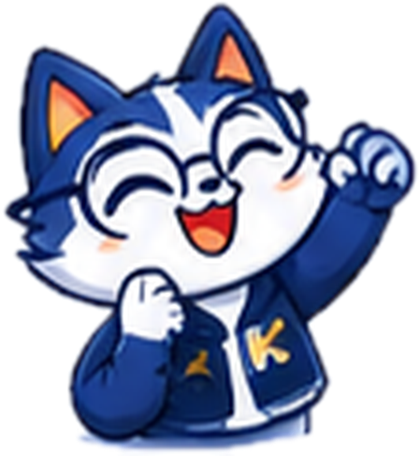
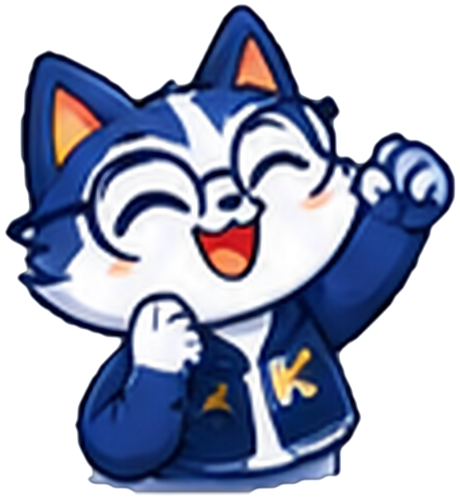
KEDU: mascote da tela de agradecimento com mais nitidez
Claude-Session: https://claude.ai/code/session_01Q54oYe2EKJQCwsKB1czPVj

diff --git a/KEDU/obrigado/index.html b/KEDU/obrigado/index.html
@@ -15,7 +15,7 @@ html,body{margin:0}
 body{min-height:100vh;display:grid;place-items:center;overflow-x:hidden;background:radial-gradient(circle at 50% 18%,#2a5fd1 0%,#173A8A 42%,#0B1740 100%);color:var(--ink);font:400 16px/1.5 Figtree,system-ui,sans-serif;padding:24px max(18px,env(safe-area-inset-right)) 24px max(18px,env(safe-area-inset-left))}
 #conf{position:fixed;inset:0;width:100%;height:100%;pointer-events:none;z-index:1}
 .wrap{position:relative;z-index:2;width:100%;max-width:520px;text-align:center}
-.mascote{display:block;width:min(200px,50vw);height:auto;margin:0 auto -40px;position:relative;z-index:3;filter:drop-shadow(0 14px 22px rgba(0,0,0,.4));transform-origin:50% 90%;animation:pop .8s cubic-bezier(.2,1.4,.4,1) both,pula 1.6s .9s ease-in-out infinite}
+.mascote{display:block;width:min(190px,48vw);height:auto;margin:0 auto -40px;position:relative;z-index:3;filter:drop-shadow(0 14px 22px rgba(0,0,0,.4));transform-origin:50% 90%;animation:pop .8s cubic-bezier(.2,1.4,.4,1) both,pula 1.6s .9s ease-in-out infinite}
 @keyframes pop{from{opacity:0;transform:scale(.4) translateY(30px)}to{opacity:1;transform:none}}
 @keyframes pula{0%,100%{transform:translateY(0) rotate(0)}30%{transform:translateY(-14px) rotate(-3deg)}60%{transform:translateY(0) rotate(2deg)}}
 .card{background:#fff;border-radius:26px;padding:48px 26px 22px;box-shadow:0 30px 70px -22px rgba(0,0,0,.6);border:3px solid var(--amber);animation:sobe .7s .25s both}
